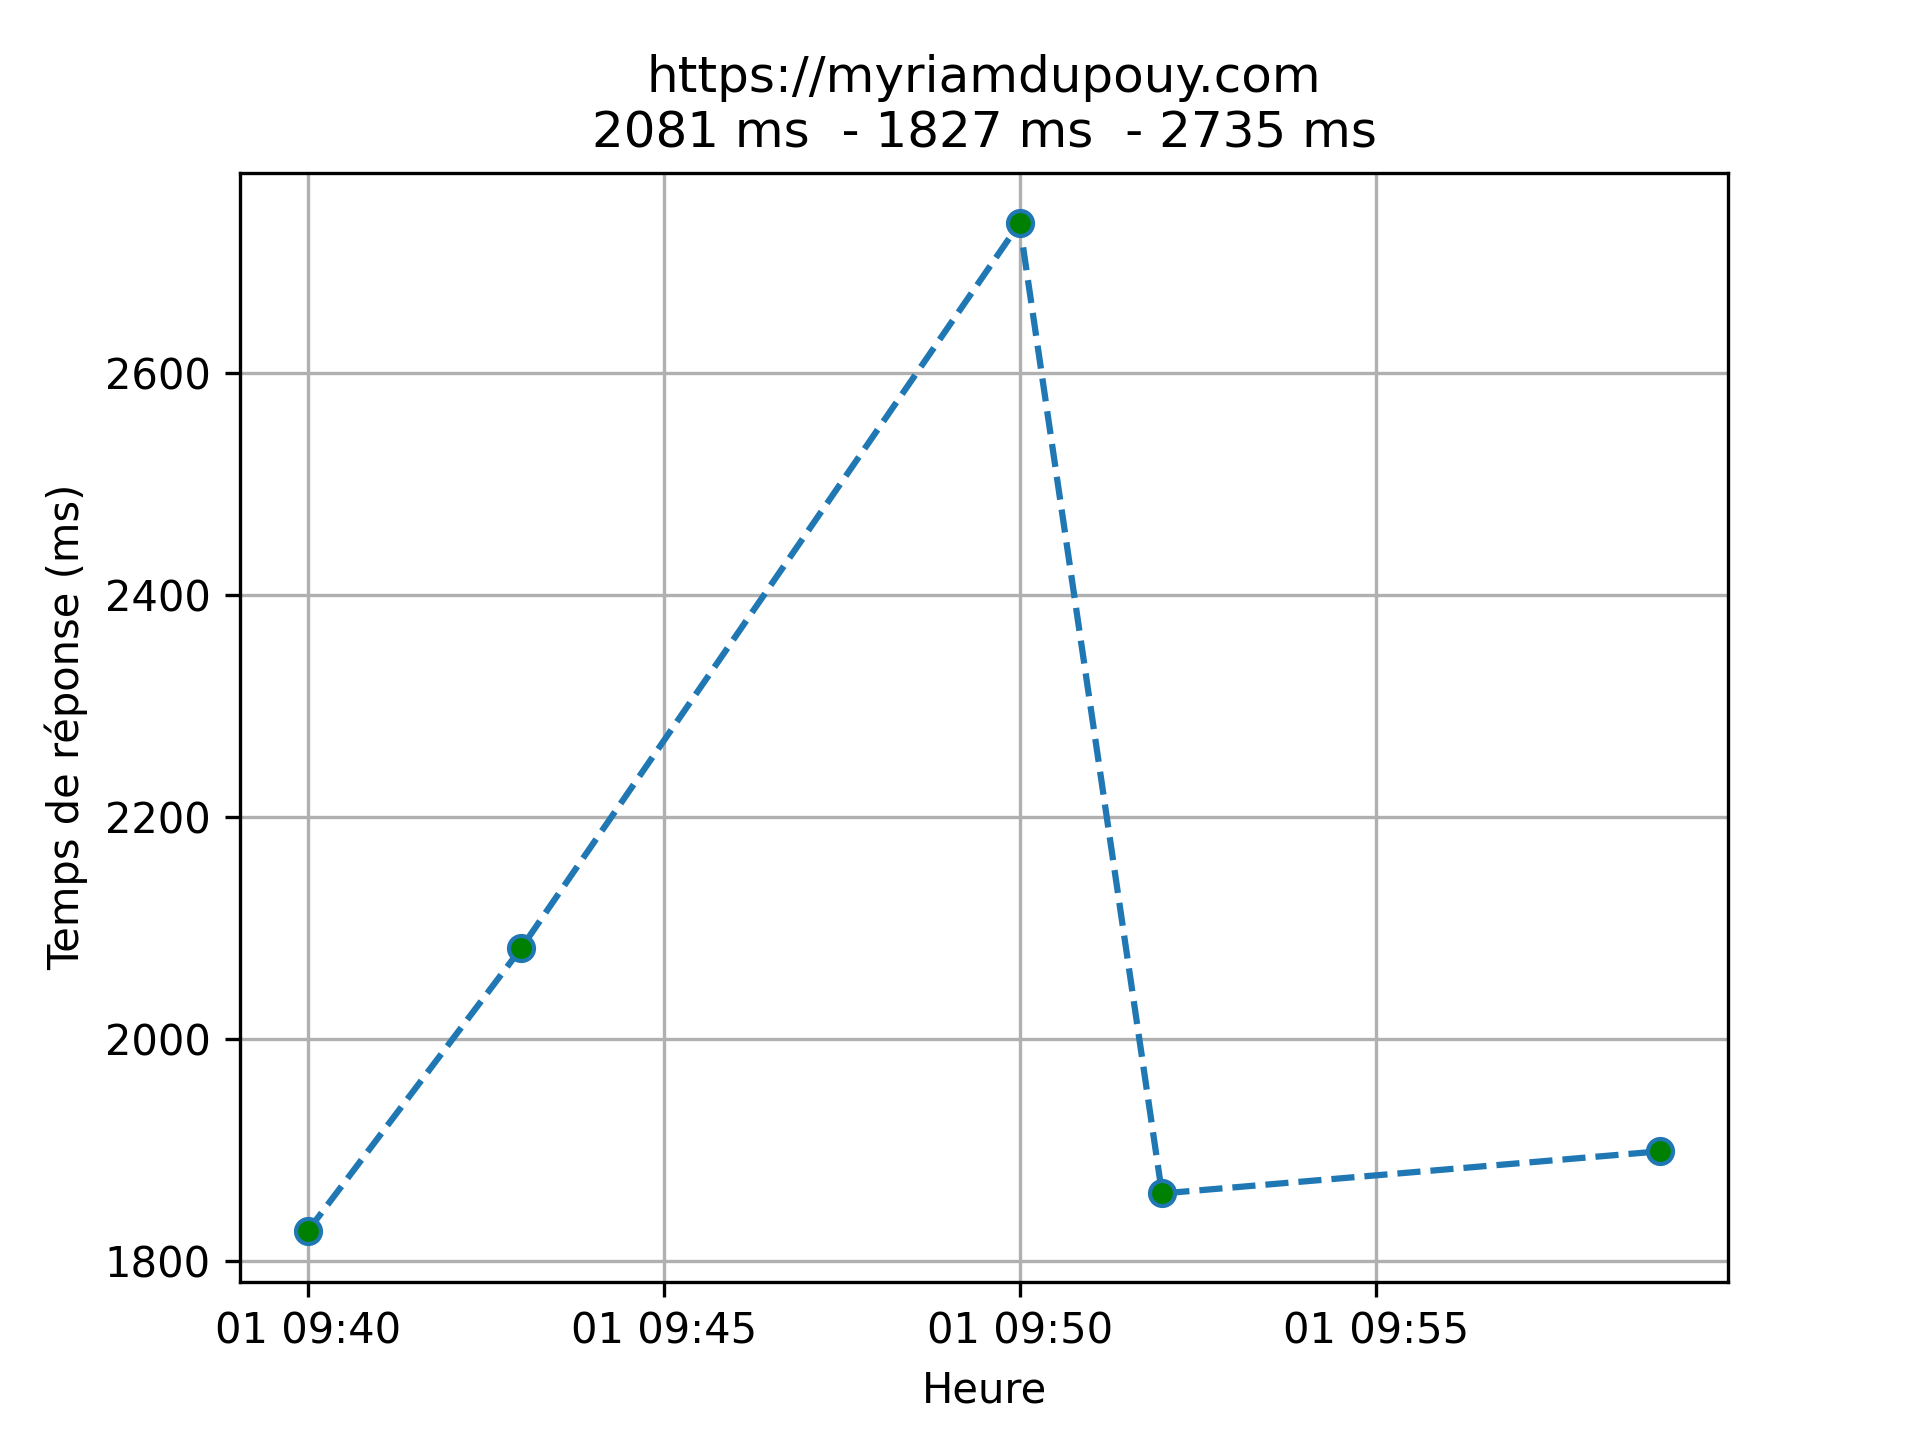
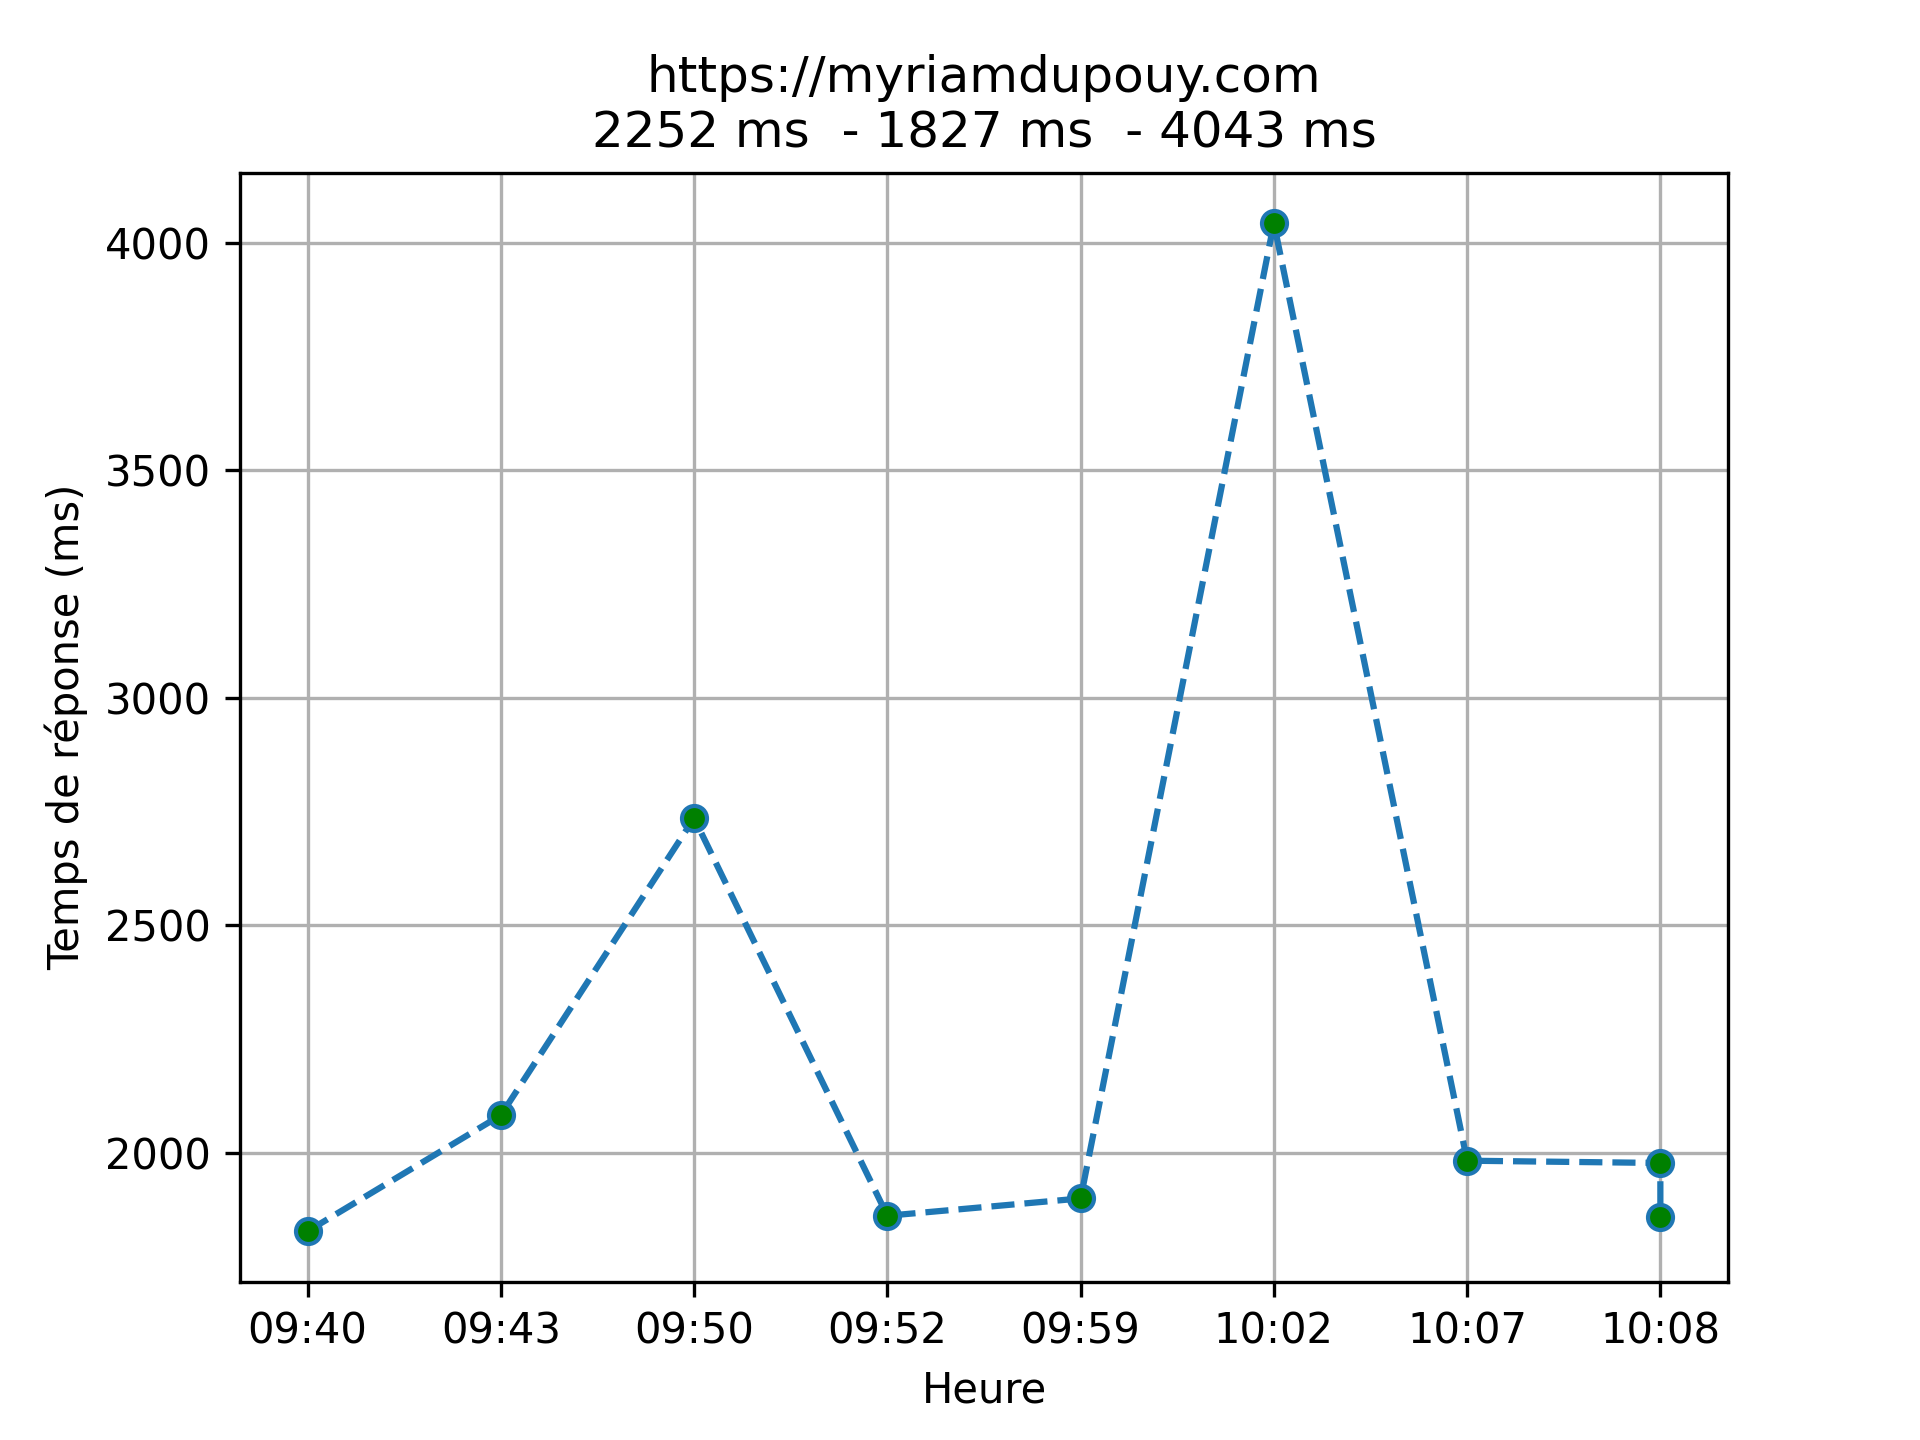
Suppression de PANDAS

diff --git a/lanceSonde.py b/lanceSonde.py
@@ -10,7 +10,6 @@ from scipy.interpolate import interp1d
 
 import matplotlib.pyplot as plt
 import numpy as np
-import pandas as pd
 
 # Suppression des Warning URLLIB3
 import urllib3
@@ -85,9 +84,8 @@ fileWrite.close()
 
 # Chargement des données pour l'axe Y
 for cle in data:
-    labels.append(pd.to_datetime(cle['heure'], format='%H:%M'))
-
-print(labels)
+    #labels.append(pd.to_datetime(cle['heure'], format='%H:%M'))
+    labels.append(cle['heure'])
 
 # Chargement des données pour l'axe X
 for cle in data:
